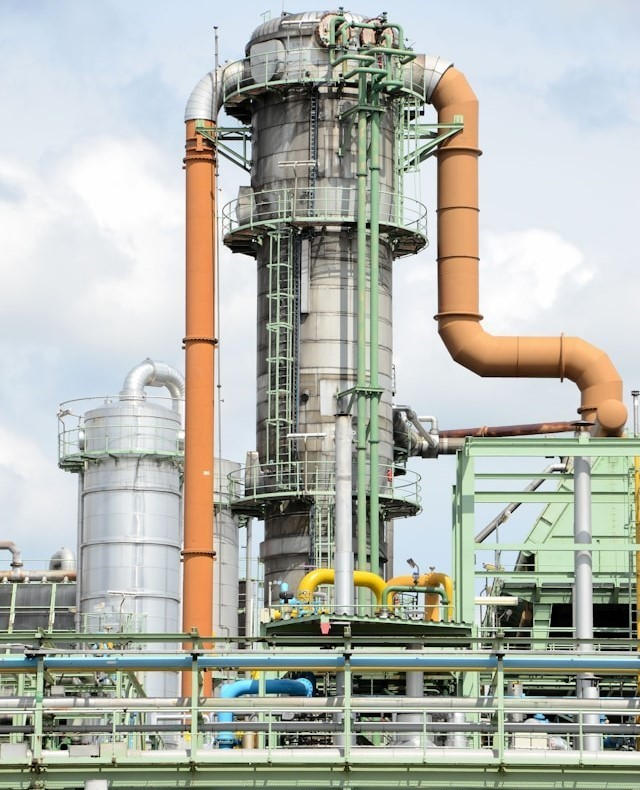
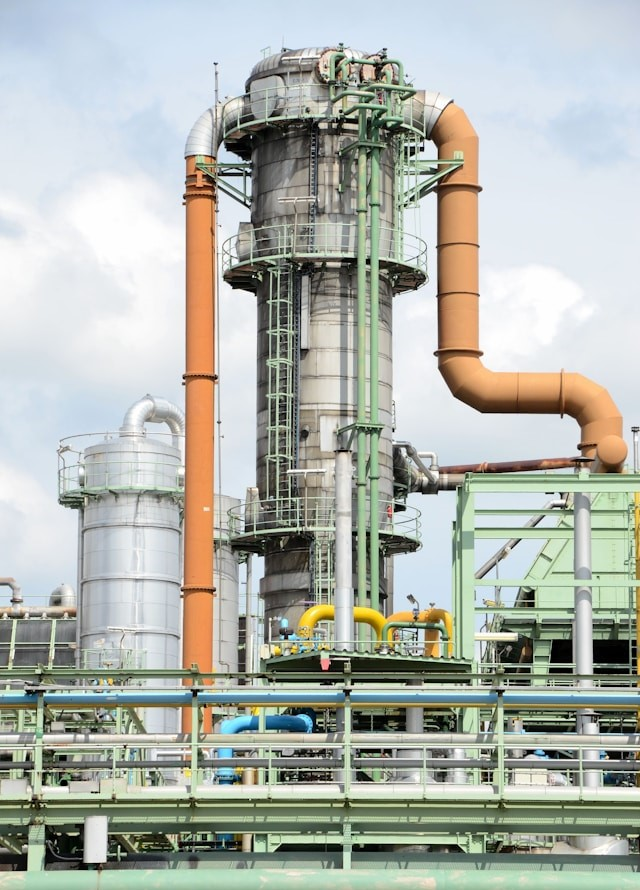
changed login image with bigger height to prevent form jitter on error.

diff --git a/src/pages/login/LoginBlockNew.js b/src/pages/login/LoginBlockNew.js
@@ -1,10 +1,9 @@
 import React, { useEffect, useRef, useState } from "react";
 import axios from "axios";
-import login_image from '../../assets/images/login_image2.jpg';
+import login_image from "../../assets/images/login_image2.jpg";
 import { useNavigate } from "react-router-dom";
 import { BiSolidHide } from "react-icons/bi";
 import { IoMdEye } from "react-icons/io";
-
 
 const LoginBlockNew = () => {
   const [email, setEmail] = useState("");
@@ -19,18 +18,19 @@ const LoginBlockNew = () => {
 
   const togglePasswordVisibility = () => {
     if (passRef.current) {
-      passRef.current.type = passVisibility ? 'password' : 'text';
+      passRef.current.type = passVisibility ? "password" : "text";
       setPassVisibility((prev) => !prev);
     }
   };
   const verifyLogin = async () => {
-  
     if (password.length < 8) {
       setError("Password too short, must be greater than 7 characters");
     } else if (password.length > 30) {
       setError("Password too long, must be less than 31 characters");
     } else if (!/\S+@\S+\.\S+/.test(email)) {
-      setEmailError("Invalid email format. Please enter a valid email address.");
+      setEmailError(
+        "Invalid email format. Please enter a valid email address."
+      );
     } else {
       try {
         setLoader(true);
@@ -49,9 +49,13 @@ const LoginBlockNew = () => {
       } catch (error) {
         setLoader(false);
         if (axios.isAxiosError(error) && !error.response) {
-          setServerError("Network Error: Please check your internet connection and try again.");
+          setServerError(
+            "Network Error: Please check your internet connection and try again."
+          );
         } else {
-          setServerError("An unexpected error occurred. Please try again later.");
+          setServerError(
+            "An unexpected error occurred. Please try again later."
+          );
         }
       }
     }
@@ -62,18 +66,28 @@ const LoginBlockNew = () => {
       <div className="w-1/2 bg-white rounded-3xl shadow-lg mx-4 ">
         <div className="md:flex">
           <div className="hidden md:block md:w-1/2 relative p-5">
-            <img className="object-cover w-full h-full rounded-2xl" src={login_image} alt="hello" />
+            <img
+              className="object-cover w-full h-full rounded-2xl"
+              src={login_image}
+              alt="hello"
+            />
           </div>
           <div className="w-1/2 p-5">
             <div className="text-center">
-              <h2 className="text-zinc-600 text-6xl font-bold mt-10" style={{ fontFamily: "Edu VIC WA NT Beginner" }}>
+              <h2
+                className="text-zinc-600 text-6xl font-bold mt-10"
+                style={{ fontFamily: "Edu VIC WA NT Beginner" }}>
                 Sign In
               </h2>
             </div>
             <div className="center">
               <form className="space-y-6 mt-14 w-[70%]" onSubmit={verifyLogin}>
                 <div>
-                  <label htmlFor="email" className="text-sm font-medium text-zinc-700 block mb-2">Email</label>
+                  <label
+                    htmlFor="email"
+                    className="text-sm font-medium text-zinc-700 block mb-2">
+                    Email
+                  </label>
                   <input
                     type="email"
                     id="email"
@@ -87,10 +101,16 @@ const LoginBlockNew = () => {
                       setError(null);
                     }}
                   />
-                  {emailError && <div className="text-sm text-red-700">{emailError}</div>}
+                  {emailError && (
+                    <div className="text-sm text-red-700">{emailError}</div>
+                  )}
                 </div>
                 <div>
-                  <label htmlFor="password" className="text-sm font-medium text-zinc-700 block mb-2">Password</label>
+                  <label
+                    htmlFor="password"
+                    className="text-sm font-medium text-zinc-700 block mb-2">
+                    Password
+                  </label>
                   <div className="relative">
                     <input
                       type="password"
@@ -108,15 +128,13 @@ const LoginBlockNew = () => {
                     {passVisibility ? (
                       <div
                         className="absolute top-[50%] right-2 translate-y-[-50%] cursor-pointer text-gray-400 text-sm scale-[1.5]"
-                        onClick={togglePasswordVisibility}
-                      >
+                        onClick={togglePasswordVisibility}>
                         <IoMdEye className="mr-2" />
                       </div>
                     ) : (
                       <div
                         className="absolute top-[50%] translate-y-[-50%] right-2 cursor-pointer text-gray-400 text-sm scale-[1.5]"
-                        onClick={togglePasswordVisibility}
-                      >
+                        onClick={togglePasswordVisibility}>
                         <BiSolidHide className="mr-2" />
                       </div>
                     )}
@@ -126,8 +144,7 @@ const LoginBlockNew = () => {
                 <div>
                   <button
                     type="submit"
-                    className="w-full flex mt-5 justify-center py-2 px-4 border border-transparent rounded-md shadow-sm text-md font-medium text-white bg-blue-800 hover:bg-blue-700 focus:outline-none focus:ring-2 focus:ring-offset-2 focus:ring-green-500"
-                  >
+                    className="w-full flex mt-5 justify-center py-2 px-4 border border-transparent rounded-md shadow-sm text-md font-medium text-white bg-blue-800 hover:bg-blue-700 focus:outline-none focus:ring-2 focus:ring-offset-2 focus:ring-green-500">
                     {loader ? (
                       <>
                         <svg
@@ -136,8 +153,7 @@ const LoginBlockNew = () => {
                           className="inline w-4 h-4 mr-3 text-white animate-spin"
                           viewBox="0 0 100 101"
                           fill="none"
-                          xmlns="http://www.w3.org/2000/svg"
-                        >
+                          xmlns="http://www.w3.org/2000/svg">
                           <path
                             d="M100 50.5908C100 78.2051 77.6142 100.591 50 100.591C22.3858 100.591 0 78.2051 0 50.5908C0 22.9766 22.3858 0.59082 50 0.59082C77.6142 0.59082 100 22.9766 100 50.5908ZM9.08144 50.5908C9.08144 73.1895 27.4013 91.5094 50 91.5094C72.5987 91.5094 90.9186 73.1895 90.9186 50.5908C90.9186 27.9921 72.5987 9.67226 50 9.67226C27.4013 9.67226 9.08144 27.9921 9.08144 50.5908Z"
                             fill="#E5E7EB"
@@ -157,12 +173,16 @@ const LoginBlockNew = () => {
               </form>
             </div>
             <div className="mt-6 text-center">
-              <p className="text-sm text-zinc-600">Can't access your account? <a href="#" className="text-green-600 hover:text-green-500">Connect admin</a></p>
+              <p className="text-sm text-zinc-600">
+                Can't access your account?{" "}
+                <a href="#" className="text-green-600 hover:text-green-500">
+                  Connect admin
+                </a>
+              </p>
             </div>
           </div>
         </div>
       </div>
-      
     </div>
   );
 };
